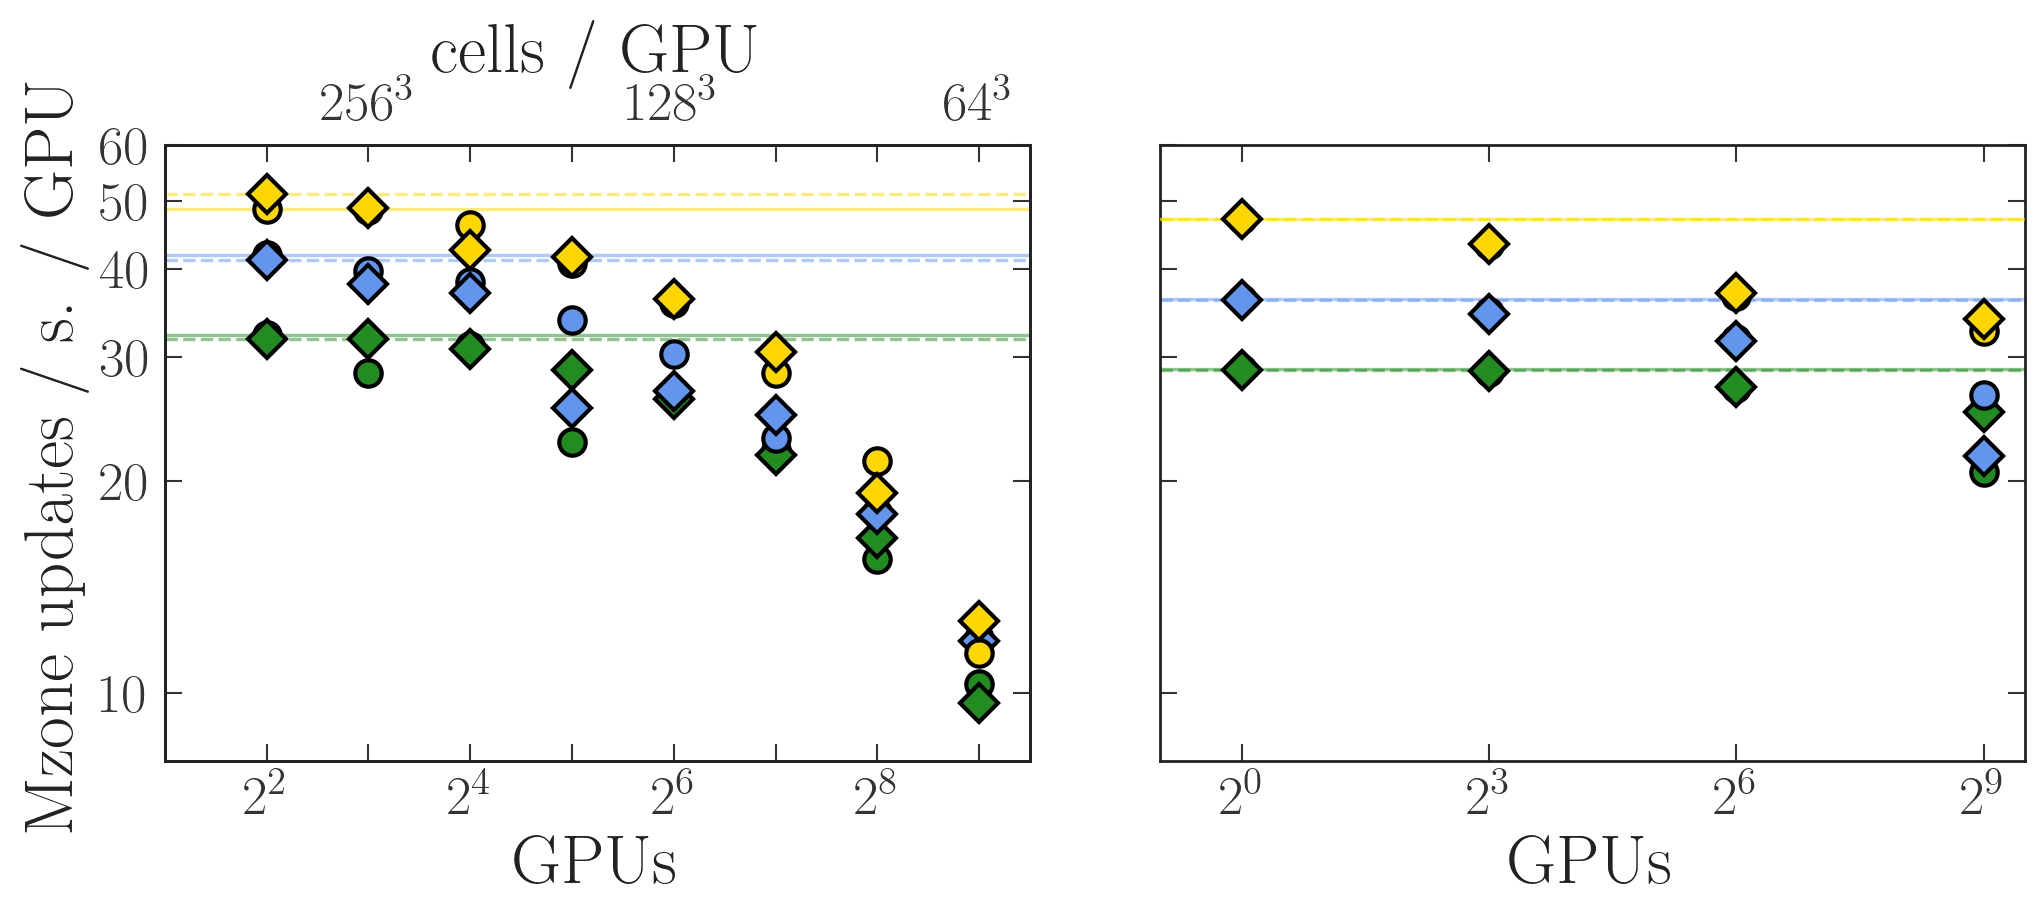
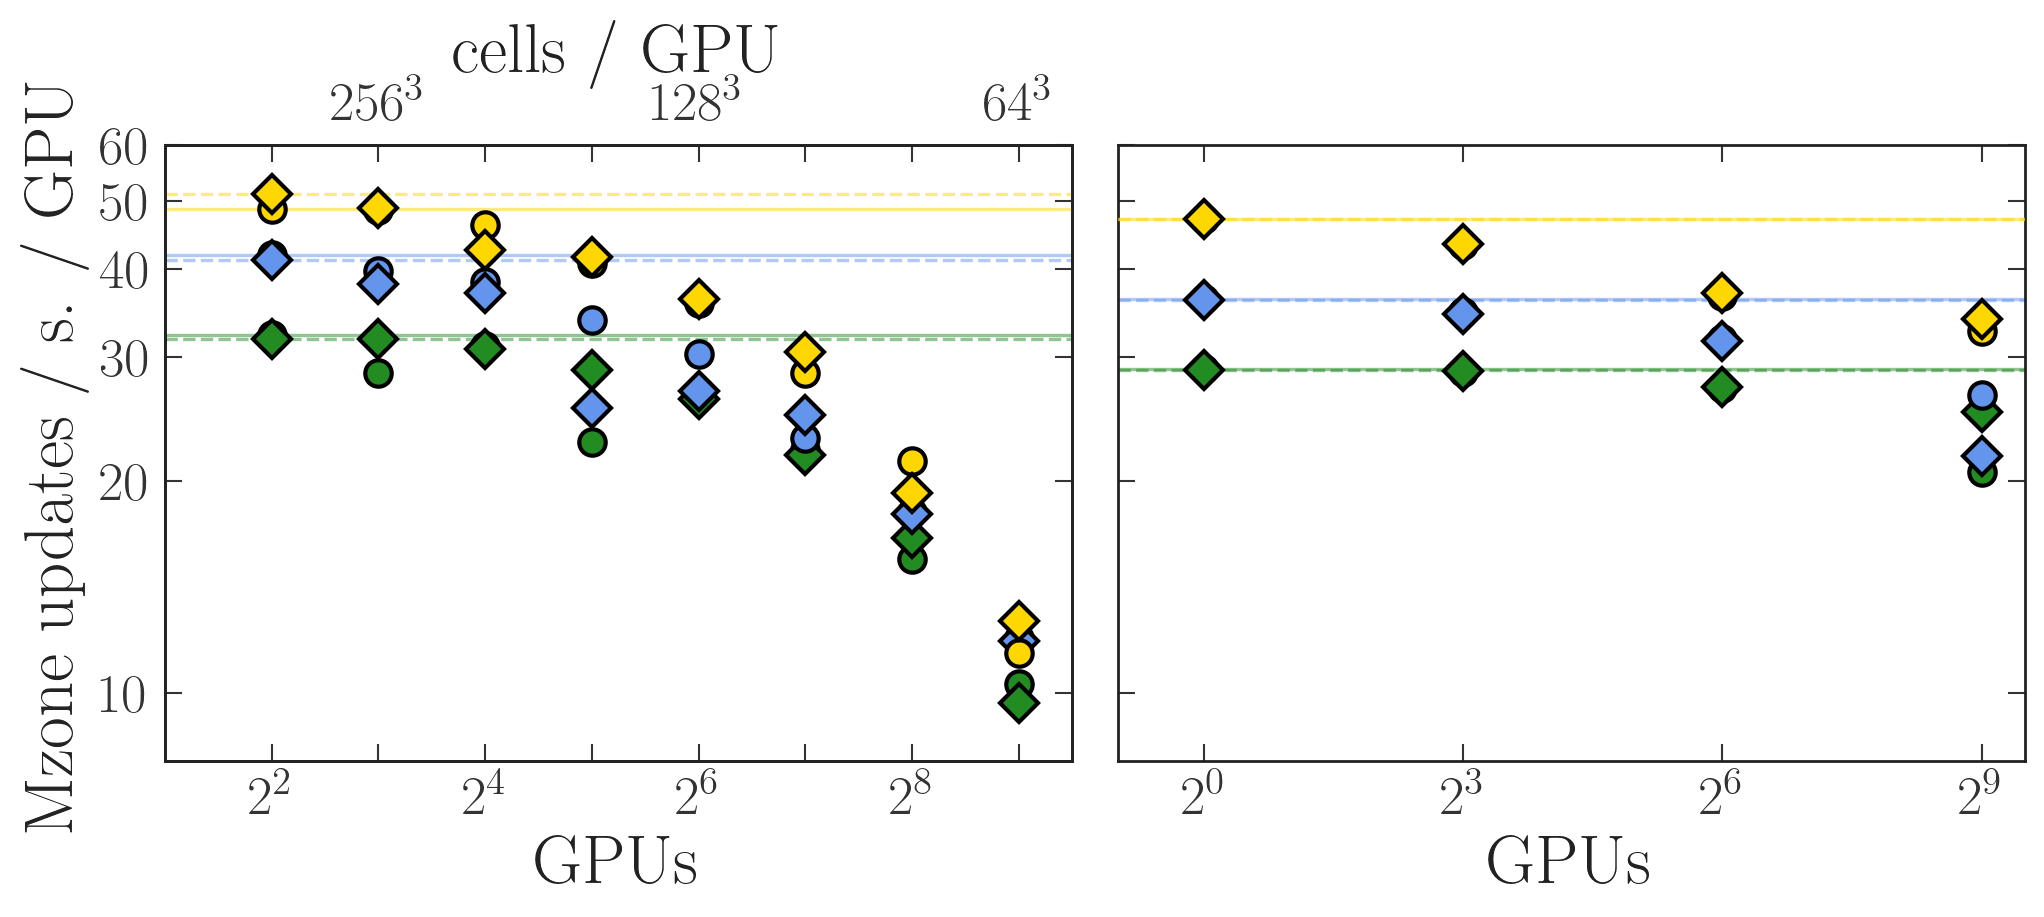
update-content(plot_gpu_scaling.py): keyword-only csv_path; tighten panel spacing.

diff --git a/scripts/performance/plot_gpu_scaling.py b/scripts/performance/plot_gpu_scaling.py
@@ -92,6 +92,7 @@ STRONG_SCALING_PROBLEM_SIZE = 512
 
 
 def load_scaling_series(
+    *,
     csv_path: Path,
 ) -> list[ScalingSeries]:
     full_data_frame = pandas.read_csv(csv_path)
@@ -231,19 +232,23 @@ def main() -> None:
     fig, axs = manage_plots.create_figure_grid(
         num_rows=1,
         num_cols=2,
-        x_spacing=0.15,
+        x_spacing=0.05,
         share_y=True,
     )
     strong_scaling_ax = axs[0, 0]
-    weak_scaling_ax = axs[0, 1]
-    grouped_strong_scaling_series = load_scaling_series(datasets_dir / "strong_gpu_scaling.csv")
+    grouped_strong_scaling_series = load_scaling_series(
+        csv_path=datasets_dir / "strong_gpu_scaling.csv",
+    )
     plot_scaling_panel(
         ax=strong_scaling_ax,
         grouped_scaling_series=grouped_strong_scaling_series,
         add_y_label=True,
     )
     annotate_strong_scaling_axis(ax=strong_scaling_ax)
-    grouped_weak_scaling_series = load_scaling_series(datasets_dir / "weak_gpu_scaling.csv")
+    weak_scaling_ax = axs[0, 1]
+    grouped_weak_scaling_series = load_scaling_series(
+        csv_path=datasets_dir / "weak_gpu_scaling.csv",
+    )
     plot_scaling_panel(
         ax=weak_scaling_ax,
         grouped_scaling_series=grouped_weak_scaling_series,
